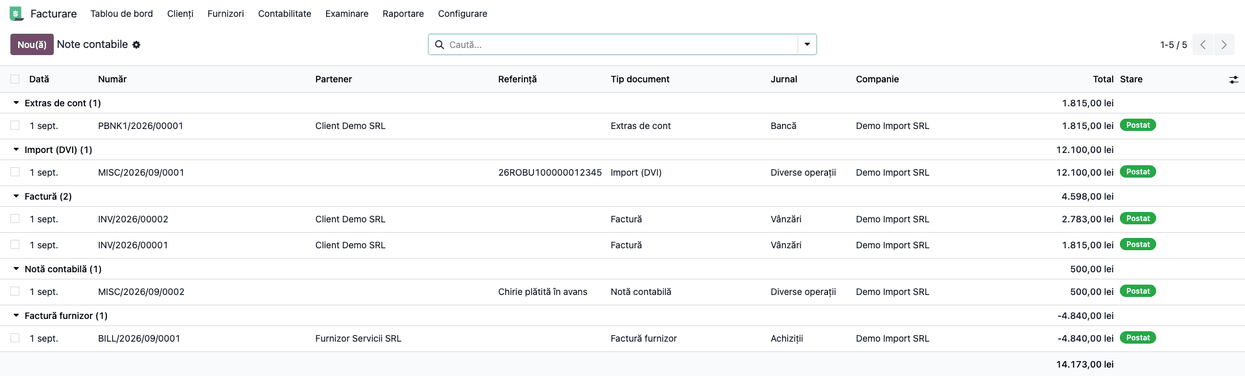
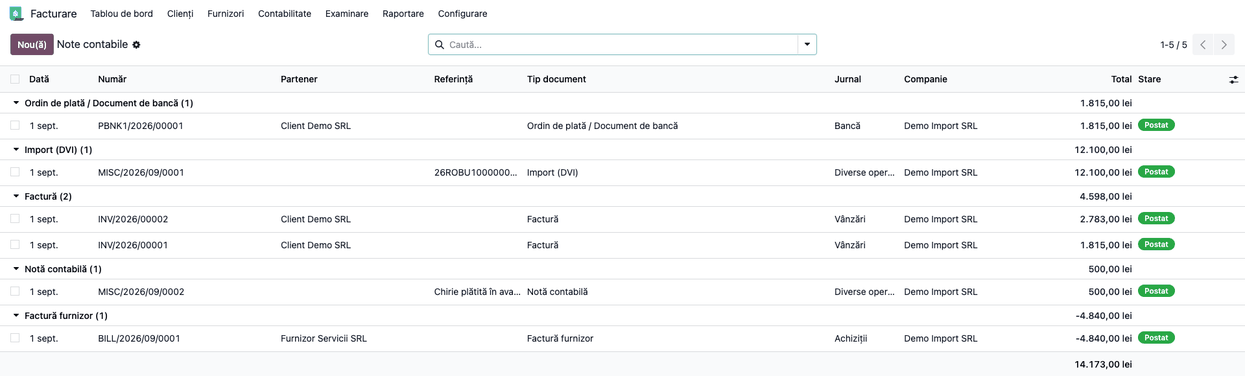
[FIX] l10n_ro_account_move_document_type: Pacioli review
- A payment in a bank journal is "Payment Order / Bank Document": its
  entry is posted on the outstanding account, before the statement and
  sometimes without being reconciled with it. Only the entries of bank
  statement lines are "Bank Statement" (model and pre_init_hook).
- Romanian labels of Odoo receipts: "Bon de vânzare" / "Bon de achiziție"
  (an Odoo sales receipt is not the fiscal receipt of the cash register).
- Consultant sheet: deferred import VAT (Dr 4426 = Cr 4427, "IMP AM",
  rows 7/22) next to the VAT paid at customs; screenshot 03 regenerated.

Assisted-by: Claude Opus 5.5

diff --git a/l10n_ro_account_move_document_type/static/description/index.html b/l10n_ro_account_move_document_type/static/description/index.html
@@ -49,8 +49,10 @@
 Romanian journals and registers can show which document justifies each entry: invoice, credit note,
 vendor bill, customs import declaration (DVI), cash receipt, cash disposal, bank statement, payroll,
 expense report or a plain journal entry.</p>
-<ul class="list-unstyled row row-cols-1 row-cols-md-2 g-2 mt-1 mb-4"><li class="col"><div class="border rounded-3 px-3 py-2 h-100 d-flex gap-2"><span class="flex-shrink-0 text-center fw-bold rounded d-inline-block" style="background-color:#57B952;color:#04331f;width:22px;height:22px;line-height:22px;font-size:13px;">&#10003;</span><div>Invoices and receipts take the type from the kind of document.</div></div></li><li class="col"><div class="border rounded-3 px-3 py-2 h-100 d-flex gap-2"><span class="flex-shrink-0 text-center fw-bold rounded d-inline-block" style="background-color:#57B952;color:#04331f;width:22px;height:22px;line-height:22px;font-size:13px;">&#10003;</span><div>Payments and bank statement lines take it from the journal: <em>Bank Statement</em> on bank journals,
-  <em>Cash Document</em> on cash journals.</div></div></li><li class="col"><div class="border rounded-3 px-3 py-2 h-100 d-flex gap-2"><span class="flex-shrink-0 text-center fw-bold rounded d-inline-block" style="background-color:#57B952;color:#04331f;width:22px;height:22px;line-height:22px;font-size:13px;">&#10003;</span><div>Every other entry is a <em>Journal Entry</em> until the module that creates it says otherwise (the DVI
+<ul class="list-unstyled row row-cols-1 row-cols-md-2 g-2 mt-1 mb-4"><li class="col"><div class="border rounded-3 px-3 py-2 h-100 d-flex gap-2"><span class="flex-shrink-0 text-center fw-bold rounded d-inline-block" style="background-color:#57B952;color:#04331f;width:22px;height:22px;line-height:22px;font-size:13px;">&#10003;</span><div>Invoices and receipts take the type from the kind of document.</div></div></li><li class="col"><div class="border rounded-3 px-3 py-2 h-100 d-flex gap-2"><span class="flex-shrink-0 text-center fw-bold rounded d-inline-block" style="background-color:#57B952;color:#04331f;width:22px;height:22px;line-height:22px;font-size:13px;">&#10003;</span><div>Bank statement lines are <em>Bank Statement</em>. A payment in a bank journal is <em>Payment Order / Bank
+  Document</em>: its entry is posted on the outstanding account, before the statement and sometimes
+  without being reconciled with it, so the statement does not justify it. On cash journals both are
+  <em>Cash Document</em>.</div></div></li><li class="col"><div class="border rounded-3 px-3 py-2 h-100 d-flex gap-2"><span class="flex-shrink-0 text-center fw-bold rounded d-inline-block" style="background-color:#57B952;color:#04331f;width:22px;height:22px;line-height:22px;font-size:13px;">&#10003;</span><div>Every other entry is a <em>Journal Entry</em> until the module that creates it says otherwise (the DVI
   entry of <code class="border rounded px-2" style="font-family:ui-monospace,SFMono-Regular,Menlo,Consolas,monospace;font-size:13px;">l10n_ro_customs_dvi</code>, the cash receipts and disposals of <code class="border rounded px-2" style="font-family:ui-monospace,SFMono-Regular,Menlo,Consolas,monospace;font-size:13px;">l10n_ro_account_sequence</code>).</div></div></li><li class="col"><div class="border rounded-3 px-3 py-2 h-100 d-flex gap-2"><span class="flex-shrink-0 text-center fw-bold rounded d-inline-block" style="background-color:#57B952;color:#04331f;width:22px;height:22px;line-height:22px;font-size:13px;">&#10003;</span><div>On a journal entry the accountant can change the type from the form, for example an import VAT
   entry recorded by hand, whose supporting document is the DVI.</div></div></li></ul>
 <p>The VAT purchase and sales journal of <code class="border rounded px-2" style="font-family:ui-monospace,SFMono-Regular,Menlo,Consolas,monospace;font-size:13px;">l10n_ro_account_vat_journal</code> uses it for the <em>Document Type</em>
@@ -75,6 +77,9 @@ automatically.</p>
 <li>New module (helpdesk ticket #9568): document type on journal entries, filled in automatically for
   invoices, receipts and payments and editable on journal entries. Existing entries are filled in
   at installation directly in SQL (<code class="border rounded px-2" style="font-family:ui-monospace,SFMono-Regular,Menlo,Consolas,monospace;font-size:13px;">pre_init_hook</code>), without recomputing the field in Python.</li>
+<li>A payment in a bank journal is <em>Payment Order / Bank Document</em>: its entry is posted on the
+  outstanding account and is justified by the payment order, not by the statement. Only the entries
+  of bank statement lines are <em>Bank Statement</em> (Pacioli review).</li>
 <li>Consultant sheet (<code class="border rounded px-2" style="font-family:ui-monospace,SFMono-Regular,Menlo,Consolas,monospace;font-size:13px;">readme/FISA_CONSULTANT.md</code>) with screenshots.</li>
 </ul>
 </div>

diff --git a/l10n_ro_account_move_document_type/hooks.py b/l10n_ro_account_move_document_type/hooks.py
@@ -3,7 +3,7 @@
 from odoo.tools import SQL
 from odoo.tools.sql import column_exists, create_column
 
-from .models.account_move import JOURNAL_TYPE_DOCUMENT_TYPE, MOVE_TYPE_DOCUMENT_TYPE
+from .models.account_move import MOVE_TYPE_DOCUMENT_TYPE, PAYMENT_DOCUMENT_TYPE, STATEMENT_DOCUMENT_TYPE
 
 
 def pre_init_hook(env):
@@ -19,8 +19,11 @@ def pre_init_hook(env):
     move_type_cases = SQL(" ").join(
         SQL("WHEN %s THEN %s", move_type, doc_type) for move_type, doc_type in MOVE_TYPE_DOCUMENT_TYPE.items()
     )
-    journal_type_cases = SQL(" ").join(
-        SQL("WHEN %s THEN %s", journal_type, doc_type) for journal_type, doc_type in JOURNAL_TYPE_DOCUMENT_TYPE.items()
+    statement_cases = SQL(" ").join(
+        SQL("WHEN %s THEN %s", journal_type, doc_type) for journal_type, doc_type in STATEMENT_DOCUMENT_TYPE.items()
+    )
+    payment_cases = SQL(" ").join(
+        SQL("WHEN %s THEN %s", journal_type, doc_type) for journal_type, doc_type in PAYMENT_DOCUMENT_TYPE.items()
     )
     cr.execute(
         SQL(
@@ -28,14 +31,17 @@ def pre_init_hook(env):
             UPDATE account_move move
                SET l10n_ro_document_type = CASE
                    WHEN move.move_type != 'entry' THEN CASE move.move_type %(move_type_cases)s END
-                   WHEN move.origin_payment_id IS NOT NULL OR move.statement_line_id IS NOT NULL
-                   THEN COALESCE(CASE journal.type %(journal_type_cases)s END, 'journal_entry')
+                   WHEN move.statement_line_id IS NOT NULL
+                   THEN COALESCE(CASE journal.type %(statement_cases)s END, 'journal_entry')
+                   WHEN move.origin_payment_id IS NOT NULL
+                   THEN COALESCE(CASE journal.type %(payment_cases)s END, 'journal_entry')
                    ELSE 'journal_entry'
                END
               FROM account_journal journal
              WHERE journal.id = move.journal_id
             """,
             move_type_cases=move_type_cases,
-            journal_type_cases=journal_type_cases,
+            statement_cases=statement_cases,
+            payment_cases=payment_cases,
         )
     )

diff --git a/l10n_ro_account_move_document_type/models/account_move.py b/l10n_ro_account_move_document_type/models/account_move.py
@@ -9,6 +9,7 @@ DOCUMENT_TYPES = [
     ("purchase_receipt", "Purchase Receipt"),
     ("customs_declaration", "Import (DVI)"),
     ("bank_statement", "Bank Statement"),
+    ("bank_document", "Payment Order / Bank Document"),
     ("cash_document", "Cash Document"),
     ("customer_receipt", "Customer Receipt"),
     ("supplier_receipt", "Supplier Receipt"),
@@ -28,8 +29,14 @@ MOVE_TYPE_DOCUMENT_TYPE = {
     "in_receipt": "purchase_receipt",
 }
 
-JOURNAL_TYPE_DOCUMENT_TYPE = {
+# Nota rândului de extras se justifică prin extras; nota plății, postată pe contul de plăți în curs
+# înainte de extras (uneori fără să fie reconciliată cu el), prin ordinul de plată / avizul băncii.
+STATEMENT_DOCUMENT_TYPE = {
     "bank": "bank_statement",
+    "cash": "cash_document",
+}
+PAYMENT_DOCUMENT_TYPE = {
+    "bank": "bank_document",
     "cash": "cash_document",
 }
 
@@ -62,6 +69,8 @@ class AccountMove(models.Model):
         self.ensure_one()
         if self.move_type in MOVE_TYPE_DOCUMENT_TYPE:
             return MOVE_TYPE_DOCUMENT_TYPE[self.move_type]
-        if self.origin_payment_id or self.statement_line_id:
-            return JOURNAL_TYPE_DOCUMENT_TYPE.get(self.journal_id.type, "journal_entry")
+        if self.statement_line_id:
+            return STATEMENT_DOCUMENT_TYPE.get(self.journal_id.type, "journal_entry")
+        if self.origin_payment_id:
+            return PAYMENT_DOCUMENT_TYPE.get(self.journal_id.type, "journal_entry")
         return "journal_entry"

diff --git a/l10n_ro_account_move_document_type/tests/test_document_type.py b/l10n_ro_account_move_document_type/tests/test_document_type.py
@@ -51,7 +51,19 @@ class TestL10nRoDocumentType(AccountTestInvoicingCommon):
             }
         )
         payment.action_post()
-        self.assertEqual(payment.move_id.l10n_ro_document_type, "bank_statement")
+        # nota plății stă pe contul de plăți în curs: o justifică ordinul de plată, nu extrasul
+        self.assertEqual(payment.move_id.l10n_ro_document_type, "bank_document")
+
+    def test_bank_statement_line(self):
+        line = self.env["account.bank.statement.line"].create(
+            {
+                "journal_id": self.company_data["default_journal_bank"].id,
+                "payment_ref": "Încasare client",
+                "partner_id": self.partner_a.id,
+                "amount": 50.0,
+            }
+        )
+        self.assertEqual(line.move_id.l10n_ro_document_type, "bank_statement")
 
     def test_manual_import_vat_entry_gets_tax_line(self):
         """Fișa, pasul 2: taxa pe linia de bază (473) generează singură linia de TVA cu grila."""

diff --git a/l10n_ro_account_move_document_type/README.rst b/l10n_ro_account_move_document_type/README.rst
@@ -29,8 +29,11 @@ customs import declaration (DVI), cash receipt, cash disposal, bank
 statement, payroll, expense report or a plain journal entry.
 
 - Invoices and receipts take the type from the kind of document.
-- Payments and bank statement lines take it from the journal: *Bank
-  Statement* on bank journals, *Cash Document* on cash journals.
+- Bank statement lines are *Bank Statement*. A payment in a bank journal
+  is *Payment Order / Bank Document*: its entry is posted on the
+  outstanding account, before the statement and sometimes without being
+  reconciled with it, so the statement does not justify it. On cash
+  journals both are *Cash Document*.
 - Every other entry is a *Journal Entry* until the module that creates
   it says otherwise (the DVI entry of ``l10n_ro_customs_dvi``, the cash
   receipts and disposals of ``l10n_ro_account_sequence``).
@@ -70,6 +73,10 @@ Changelog
   editable on journal entries. Existing entries are filled in at
   installation directly in SQL (``pre_init_hook``), without recomputing
   the field in Python.
+- A payment in a bank journal is *Payment Order / Bank Document*: its
+  entry is posted on the outstanding account and is justified by the
+  payment order, not by the statement. Only the entries of bank
+  statement lines are *Bank Statement* (Pacioli review).
 - Consultant sheet (``readme/FISA_CONSULTANT.md``) with screenshots.
 
 Bug Tracker

diff --git a/l10n_ro_account_move_document_type/readme/DESCRIPTION.md b/l10n_ro_account_move_document_type/readme/DESCRIPTION.md
@@ -4,8 +4,10 @@ vendor bill, customs import declaration (DVI), cash receipt, cash disposal, bank
 expense report or a plain journal entry.
 
 - Invoices and receipts take the type from the kind of document.
-- Payments and bank statement lines take it from the journal: *Bank Statement* on bank journals,
-  *Cash Document* on cash journals.
+- Bank statement lines are *Bank Statement*. A payment in a bank journal is *Payment Order / Bank
+  Document*: its entry is posted on the outstanding account, before the statement and sometimes
+  without being reconciled with it, so the statement does not justify it. On cash journals both are
+  *Cash Document*.
 - Every other entry is a *Journal Entry* until the module that creates it says otherwise (the DVI
   entry of `l10n_ro_customs_dvi`, the cash receipts and disposals of `l10n_ro_account_sequence`).
 - On a journal entry the accountant can change the type from the form, for example an import VAT

diff --git a/l10n_ro_account_move_document_type/readme/HISTORY.md b/l10n_ro_account_move_document_type/readme/HISTORY.md
@@ -3,4 +3,7 @@
 - New module (helpdesk ticket #9568): document type on journal entries, filled in automatically for
   invoices, receipts and payments and editable on journal entries. Existing entries are filled in
   at installation directly in SQL (`pre_init_hook`), without recomputing the field in Python.
+- A payment in a bank journal is *Payment Order / Bank Document*: its entry is posted on the
+  outstanding account and is justified by the payment order, not by the statement. Only the entries
+  of bank statement lines are *Bank Statement* (Pacioli review).
 - Consultant sheet (`readme/FISA_CONSULTANT.md`) with screenshots.
